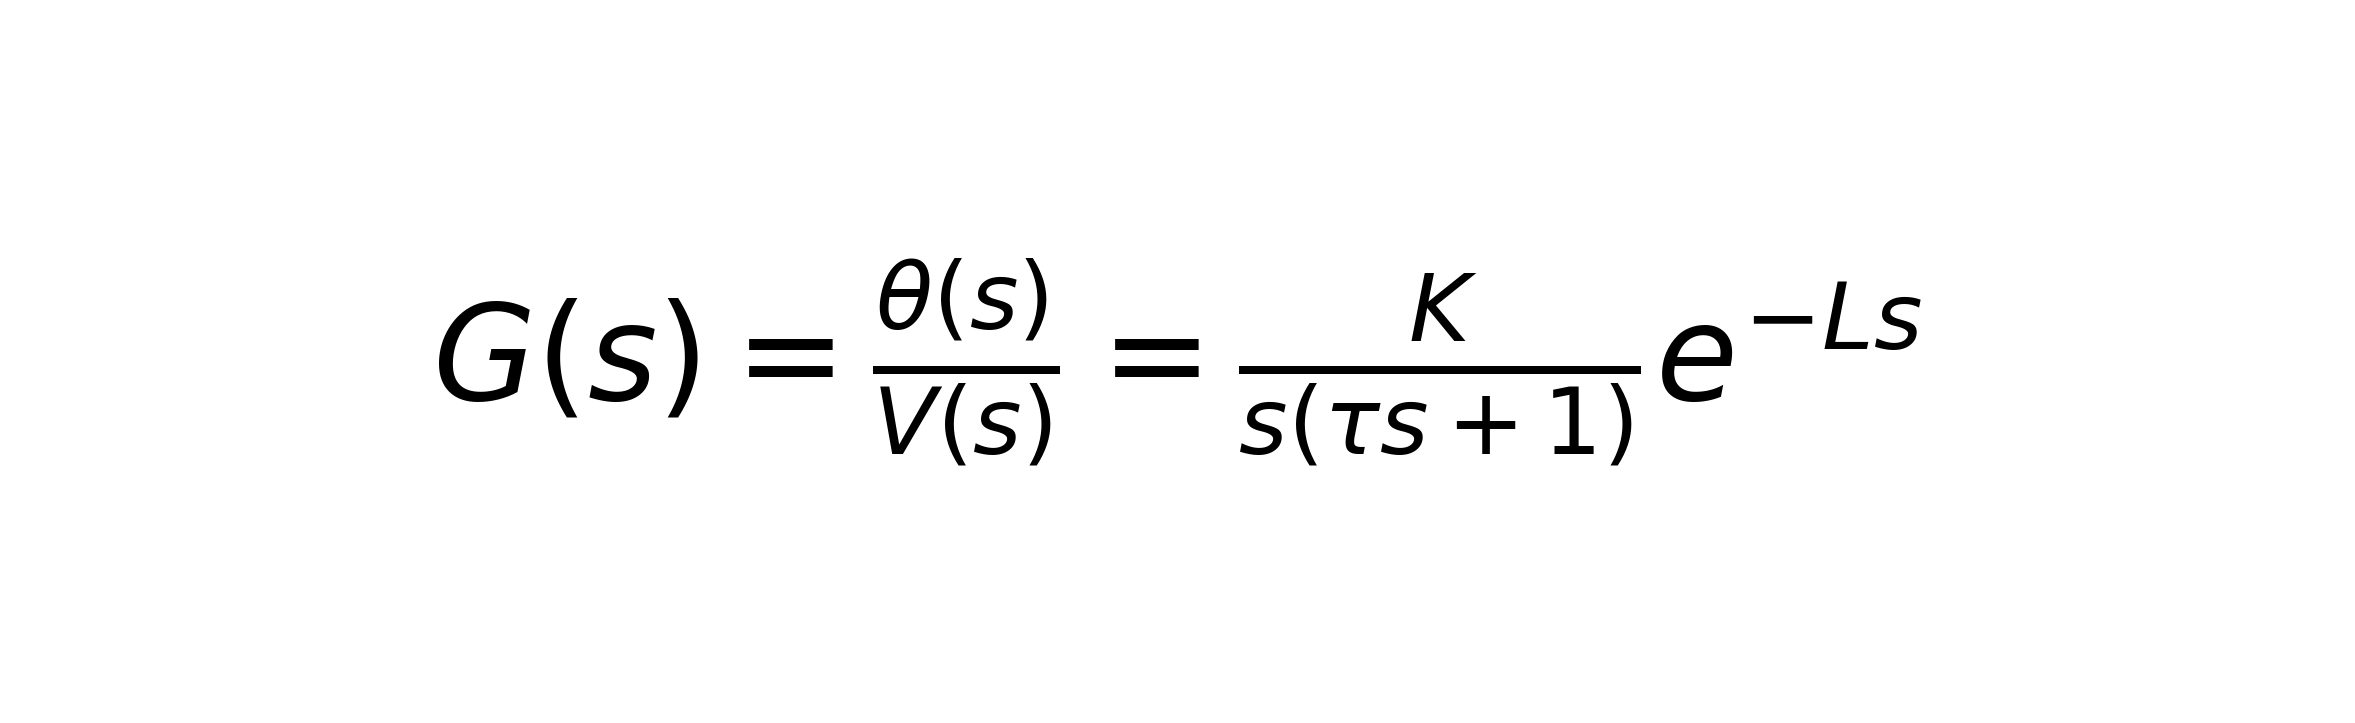
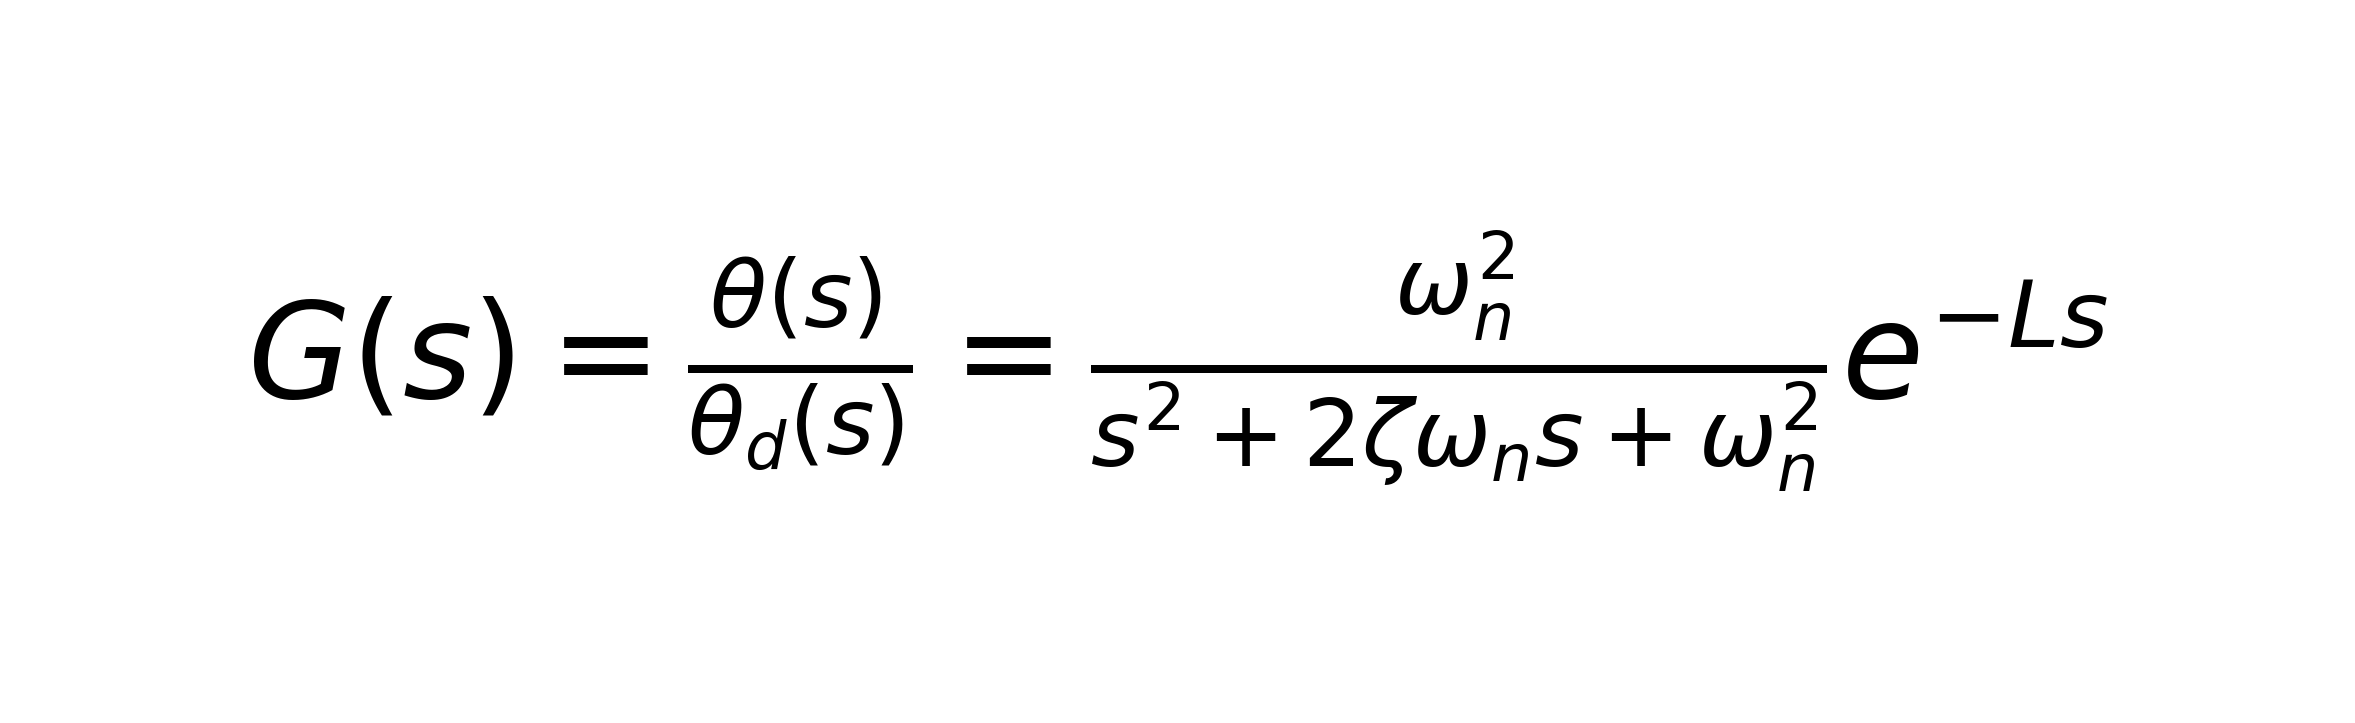
fix: resolve DMC prediction update bug, switch to stable second-order plant, and update simulation plot

Changed region(s): [[0.093, 0.3347, 0.8989, 0.6694], [0.589, 0.3043, 0.651, 0.4869]]

diff --git a/MPC/simulation.py b/MPC/simulation.py
@@ -3,24 +3,24 @@ import matplotlib.pyplot as plt
 from collections import deque
 from mpc_controller import DMCController
 
-class GimbalSim:
+class StableGimbalSim:
     """
-    Simulation model of a gimbal axis driven by a DC motor.
-    It is modeled as a second-order system with input delay:
-    G(s) = K / (s * (tau * s + 1)) * e^(-L * s)
+    Simulation model of a closed-loop camera gimbal position servo axis.
+    It is modeled as a stable second-order system with input delay:
+    G(s) = omega_n^2 / (s^2 + 2*zeta*omega_n*s + omega_n^2) * e^(-L * s)
     
     State equations:
     x1_dot = x2
-    x2_dot = -1/tau * x2 + K/tau * u(t - L)
+    x2_dot = -2*zeta*omega_n*x2 - omega_n^2*x1 + omega_n^2*u(t - L)
     
     where:
     x1 : angular position (rad)
     x2 : angular velocity (rad/s)
-    u  : control input (voltage or target velocity)
+    u  : target position command (rad)
     """
-    def __init__(self, K=1.5, tau=0.1, delay_sec=0.04, dt=0.01):
-        self.K = K
-        self.tau = tau
+    def __init__(self, omega_n=15.0, zeta=0.8, delay_sec=0.04, dt=0.01):
+        self.omega_n2 = omega_n**2
+        self.two_zeta_omega = 2.0 * zeta * omega_n
         self.dt = dt
         
         # Calculate delay in terms of discrete steps
@@ -43,7 +43,7 @@ class GimbalSim:
         def dynamics(state, ctrl):
             pos, vel = state[0], state[1]
             dpos = vel
-            dvel = -1.0 / self.tau * vel + self.K / self.tau * ctrl
+            dvel = -self.two_zeta_omega * vel - self.omega_n2 * pos + self.omega_n2 * ctrl
             return np.array([dpos, dvel])
             
         # RK4 Integration
@@ -101,7 +101,7 @@ class PIDController:
         # Clamp output (anti-windup)
         u_clamped = np.clip(u, self.u_min, self.u_max)
         if u != u_clamped:
-            # Back-calculate or limit integral to prevent windup
+            # Limit/reset integral to prevent windup
             self.integral -= error * dt
             
         return u_clamped
@@ -131,16 +131,16 @@ def main():
     t_max = 8.0
     time_steps = np.arange(0, t_max, dt)
     
-    # 1. Initialize the Plant (gimbal axis with 0.04s delay)
-    K_gain = 1.5
-    tau_const = 0.1
+    # 1. Initialize the Plant (gimbal position servo loop with 0.04s delay)
+    omega_n = 15.0
+    zeta = 0.8
     delay_sec = 0.04
     
-    plant_for_coefficients = GimbalSim(K=K_gain, tau=tau_const, delay_sec=delay_sec, dt=dt)
+    plant_for_coefficients = StableGimbalSim(omega_n=omega_n, zeta=zeta, delay_sec=delay_sec, dt=dt)
     
     # 2. DMC prediction parameters
-    P = 25  # Prediction horizon (0.25s), covers the 0.04s delay
-    M = 4   # Control horizon
+    P = 45  # Prediction horizon (0.45s) covering the plant settling time and 0.04s delay
+    M = 5   # Control horizon
     alpha = 0.7  # Smoothing factor
     
     # Generate step response coefficients
@@ -169,14 +169,14 @@ def main():
     # ----------------------------------------------------
     # Simulation 1: DMC Controller
     # ----------------------------------------------------
-    plant_dmc = GimbalSim(K=K_gain, tau=tau_const, delay_sec=delay_sec, dt=dt)
+    plant_dmc = StableGimbalSim(omega_n=omega_n, zeta=zeta, delay_sec=delay_sec, dt=dt)
     dmc = DMCController(
         step_response=step_response,
         P=P,
         M=M,
         alpha=alpha,
         Q_weight=1.0,
-        R_weight=0.2
+        R_weight=0.1
     )
     
     for t in time_steps:
@@ -185,7 +185,7 @@ def main():
         
         # Update controller
         u = dmc.update(y, ref, dt)
-        # Limit control input (voltage limit of gimbal motor, e.g. -12V to 12V)
+        # Limit control input (gimbal command limits, e.g. -12 to 12 rad)
         u = np.clip(u, -12.0, 12.0)
         # Keep controller's internal u in sync with clamp
         dmc.u = u
@@ -202,11 +202,11 @@ def main():
     # ----------------------------------------------------
     # Simulation 2: Classical PID Controller
     # ----------------------------------------------------
-    plant_pid = GimbalSim(K=K_gain, tau=tau_const, delay_sec=delay_sec, dt=dt)
+    plant_pid = StableGimbalSim(omega_n=omega_n, zeta=zeta, delay_sec=delay_sec, dt=dt)
     
     # PID tuned for stability under 0.04s delay.
-    # High gains cause severe oscillation due to delay; low gains slow down response.
-    pid = PIDController(kp=4.0, ki=1.0, kd=0.5, u_min=-12.0, u_max=12.0)
+    # Higher gains cause oscillations due to delay, showing typical lag limitation.
+    pid = PIDController(kp=2.0, ki=1.0, kd=0.15, u_min=-12.0, u_max=12.0)
     
     for t in time_steps:
         ref = get_target(t)
@@ -247,10 +247,10 @@ def main():
     axs[1].grid(True)
     axs[1].legend(loc='lower right')
     
-    # Subplot 3: Control Input (Voltage)
+    # Subplot 3: Control Input (Voltage/Command)
     axs[2].plot(time_steps, history_u_dmc, 'g-', label='DMC Input u(t)')
     axs[2].plot(time_steps, history_u_pid, 'r-', label='PID Input u(t)')
-    axs[2].set_ylabel('Voltage (V)')
+    axs[2].set_ylabel('Control Input (rad)')
     axs[2].set_xlabel('Time (s)')
     axs[2].set_title('Control Input Effort')
     axs[2].grid(True)

diff --git a/MPC/mpc_controller.py b/MPC/mpc_controller.py
@@ -123,9 +123,8 @@ class DMCController:
         du_k = dU[0, 0]
         self.u += du_k
         
-        # 6. Update predictions including the effect of the new control input increment
-        # Y0(k) = Y0_shifted + A * dU
-        self.Y0 = Y0_shifted + self.A.dot(dU)
+        # 6. Update predictions using only the executed control increment du_k
+        self.Y0 = Y0_shifted + self.a.reshape((self.P, 1)) * du_k
         
         return self.u
         